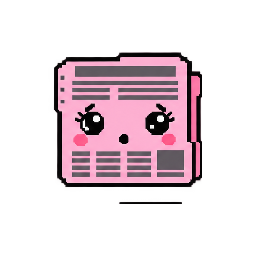
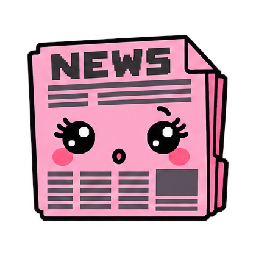
Refine desktop pet art, sizes and interaction handoff

diff --git a/docs/publications-20261008.md b/docs/publications-20261008.md
@@ -25,3 +25,5 @@ The new standalone entry has not been separately verified as a hosted website. A
 Keep this source tag unchanged. For a defect in the pet interface, use the original application entry described in README.md or check out the prior source in a separate checkout. Publish a corrective commit and new tag; do not reset shared main or force-push a rollback. Back up browser records before clearing site data.
 
 2026-10-11: Desktop artwork/size update prepared for publication; see ../desktop-pet-20261011.json. No new app integrations claimed.
+
+Desktop art follow-up (2026-10-11): Pink NEWS newspaper with lashes, folded corner and columns; same 42.3 logical-pixel height as File Master. Source frames and runtime handoff are recorded in desktop-pet-20261011.json. Prepared by OpenAI Codex (GPT-6), 2026-10-11.
